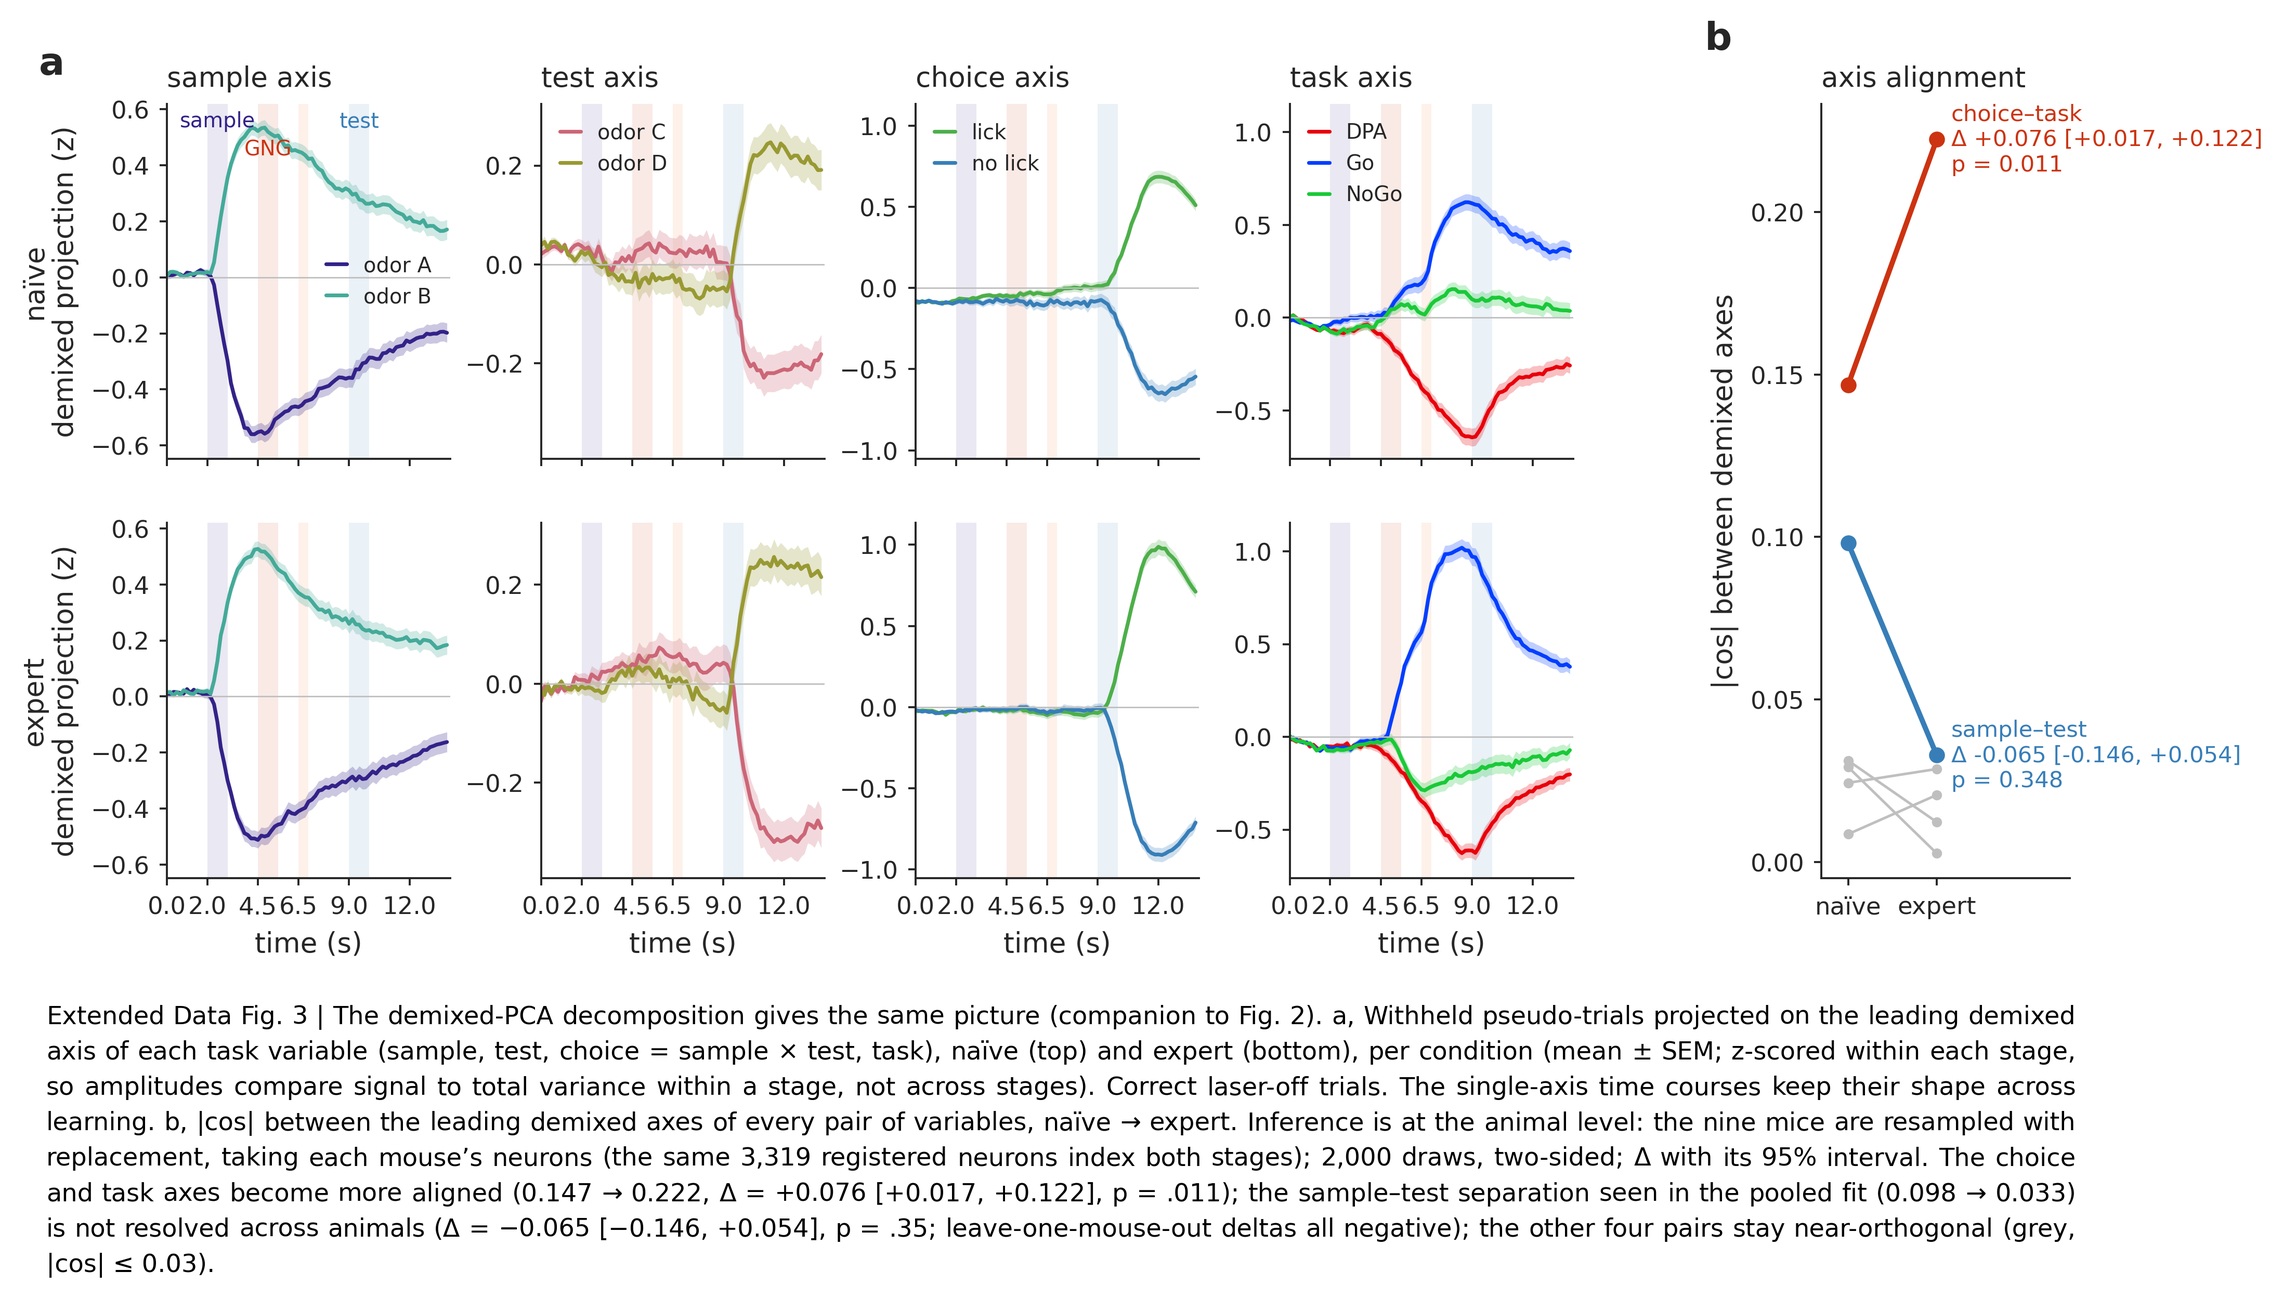
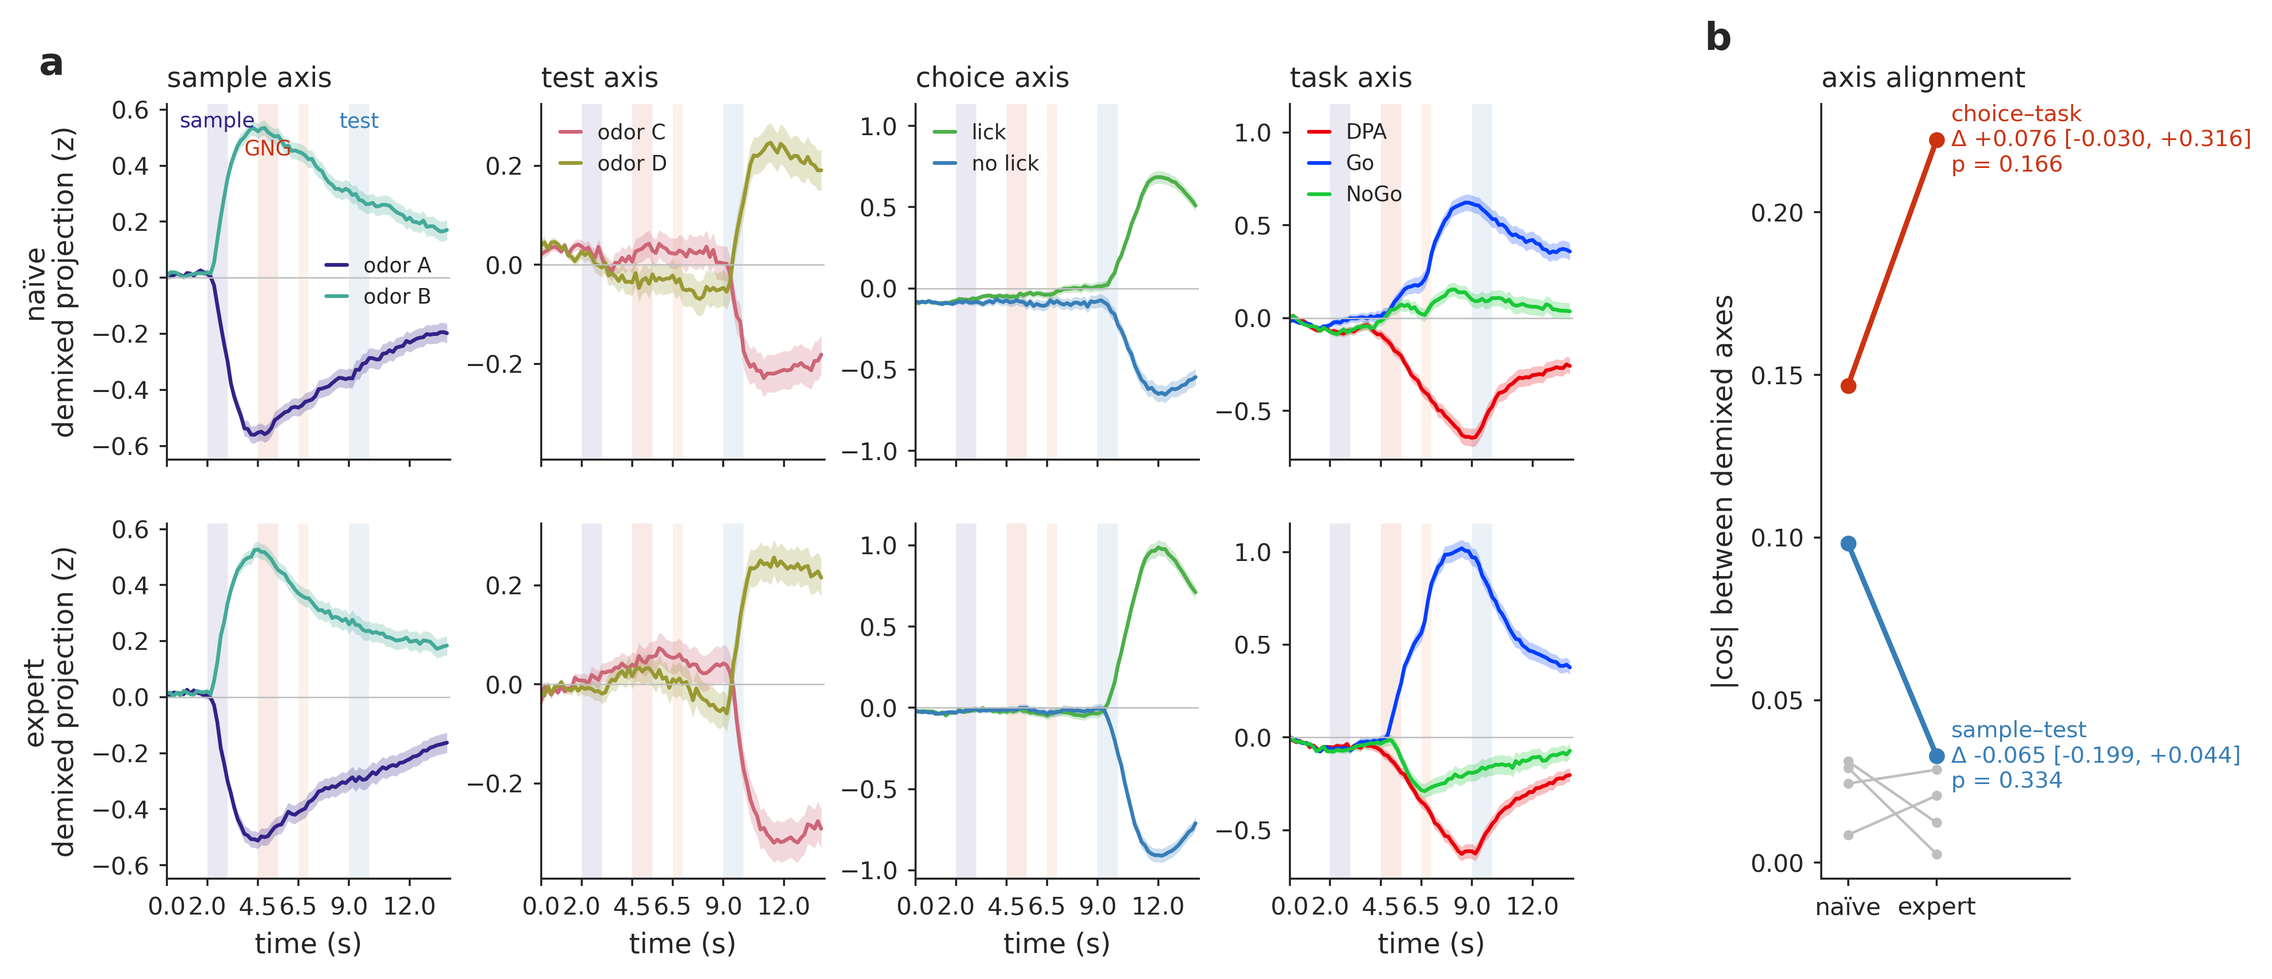
ED 3b: refit-dPCA mouse bootstrap — the choice–task alignment increase is not resolved across animals; draft v12.38
exp_dpca_refit_boot.py re-fits dPCA on 1,000 resampled nine-mouse sets: choice–task Δ +0.076 [−0.030, +0.316]
p .17 (fixed-axis bootstrap p .011 withdrawn), sample–test Δ −0.065 [−0.199, +0.044] p .33. ED 3b, §2, ED 3
legend, docs and memory updated. run_overlaps.py gains a within-session trial index column and seeded folds.

Claude-Session: https://claude.ai/code/session_01PzGzWMKHPqqyp4poHedntF

diff --git a/pca/exp_dpca_refit_boot.py b/pca/exp_dpca_refit_boot.py
@@ -1,0 +1,96 @@
+"""Refit-dPCA mouse bootstrap for the axis-mixing panel (ED 3b) — reviewer item 2026-09-15.
+
+ED 3b's animal-level interval resamples the nine mice's neuron columns of the FIXED per-stage dPCA decoders
+(`pseudo_weights_…f-sample-test-tasks_dpca`). That keeps the decoders as fitted on all nine mice; a mouse
+bootstrap should REFIT dPCA on each resampled set of mice. This script does that with the pipeline's own
+primitives (src/pca/pseudo.build_pseudo_population + src/pca/dpca.dpca_decode; factors sample x test x tasks,
+zscore, baseline-centred, q = 2, ridge 1e-2, correct laser-off trials — the reference build's settings):
+
+  for each of B draws of nine mice with replacement (the SAME draw for Naive and Expert):
+      P_b = the drawn mice's condition-average blocks concatenated along neurons (a mouse drawn twice appears twice)
+      W_b = dpca_decode(P_b)   →  |cos| between the first components of every pair of marginals
+      Δ_b = cos_Expert − cos_Naive
+  percentile 95% CI and two-sided bootstrap p (fraction of draws on either side of 0) per pair.
+
+Writes DPCA_REFIT_BOOT into figures/pseudo/dimensionality/results.pkl (point estimates, per-draw Δ, CI, p, and
+the reference cosines recomputed here, which must match fig_ed6_dpca.py's N -> E values).
+Run:  cd /home/leon/dual/pca && /home/leon/mambaforge/envs/dual/bin/python exp_dpca_refit_boot.py [--B 1000]
+"""
+import sys, os, warnings, pickle, argparse
+warnings.filterwarnings('ignore'); sys.path.insert(0, '/home/leon/dual/')
+os.chdir(os.path.dirname(os.path.abspath(__file__)))
+import numpy as np
+from time import perf_counter
+from joblib import Parallel, delayed
+from src.pca.io import pkl_load
+from src.pca.pseudo import build_pseudo_population
+from src.pca.dpca import dpca_decode
+from src.pca.utils import get_levels
+
+ap = argparse.ArgumentParser(); ap.add_argument('--B', type=int, default=1000); ap.add_argument('--jobs', type=int, default=36)
+args = ap.parse_args()
+FACTORS = ['sample', 'test', 'tasks']; STAGES = ['Naive', 'Expert']
+MARGS = ['sample', 'test', 'sample:test', 'tasks']; SH = {'sample': 'sample', 'test': 'test', 'sample:test': 'choice', 'tasks': 'task'}
+PRS = [(a, b) for a in range(4) for b in range(a + 1, 4)]
+
+t0 = perf_counter()
+print('loading X_all_blcenter (10 GB) …', flush=True)
+X_all = pkl_load('X_all_blcenter', path='../data/pca'); y_all = pkl_load('y_all_blcenter', path='../data/pca')
+SL = pkl_load('mouse_slices', path='../data/pca'); MICE = list(SL.keys())
+y_all['sample'] = y_all.sample_odor; y_all['test'] = y_all.test_odor          # as run_pseudo.py
+print(f'  X_all {X_all.shape}  ({(perf_counter() - t0) / 60:.1f} min)', flush=True)
+
+P = {}; SIZES = None
+for st in STAGES:                                    # the reference build's clean set: correct laser-off trials
+    m = ((y_all.laser == 0) & (y_all.learning == st) & (y_all.performance == 1)).to_numpy()
+    yc = y_all.loc[m].reset_index(drop=True); levels = get_levels(yc, FACTORS)
+    SIZES = [len(levels[f]) for f in FACTORS]
+    P[st], _, _, _ = build_pseudo_population(X_all[m], yc, FACTORS, SL, levels=levels, epoch=None,
+                                             bl_bins=slice(0, 12), norm='zscore')
+    print(f'  {st}: P {P[st].shape}  sizes {SIZES}', flush=True)
+del X_all
+
+
+def cosines(W, labels):
+    ix = {mg: labels.index(mg) for mg in MARGS}
+    u = {mg: W[ix[mg]] / np.linalg.norm(W[ix[mg]]) for mg in MARGS}
+    return np.array([abs(float(u[MARGS[a]] @ u[MARGS[b]])) for a, b in PRS])
+
+
+def one_draw(pick):
+    out = {}
+    for st in STAGES:
+        Pb = np.concatenate([P[st][:, SL[MICE[k]], :] for k in pick], axis=1)
+        W, _, labels, _ = dpca_decode(Pb, SIZES, FACTORS, q=2, ridge=1e-2)
+        out[st] = cosines(W, labels)
+    return out['Expert'] - out['Naive'], out['Naive'], out['Expert']
+
+
+REF = {}
+for st in STAGES:
+    W, _, labels, _ = dpca_decode(P[st], SIZES, FACTORS, q=2, ridge=1e-2); REF[st] = cosines(W, labels)
+print('\nreference |cos| (must match fig_ed6_dpca.py panel b):')
+for i, (a, b) in enumerate(PRS):
+    print(f'  {SH[MARGS[a]]:>6}-{SH[MARGS[b]]:<6} N {REF["Naive"][i]:.3f} -> E {REF["Expert"][i]:.3f}  Δ {REF["Expert"][i] - REF["Naive"][i]:+.3f}')
+
+rng = np.random.RandomState(0)
+PICKS = [rng.randint(0, len(MICE), len(MICE)) for _ in range(args.B)]
+print(f'\nrefit bootstrap: {args.B} draws × 2 stages on {args.jobs} workers …', flush=True)
+t1 = perf_counter()
+res = Parallel(n_jobs=args.jobs, verbose=2)(delayed(one_draw)(p) for p in PICKS)
+D = np.array([r[0] for r in res]); CN = np.array([r[1] for r in res]); CE = np.array([r[2] for r in res])
+print(f'  done in {(perf_counter() - t1) / 60:.1f} min')
+ci = np.percentile(D, [2.5, 97.5], axis=0).T
+pv = np.array([2 * min((D[:, i] > 0).mean(), (D[:, i] < 0).mean()) for i in range(len(PRS))])
+print('\nrefit mouse bootstrap (Δ = expert − naive |cos|):')
+for i, (a, b) in enumerate(PRS):
+    print(f'  {SH[MARGS[a]]:>6}-{SH[MARGS[b]]:<6} Δ {REF["Expert"][i] - REF["Naive"][i]:+.3f}  boot mean {D[:, i].mean():+.3f}  '
+          f'CI [{ci[i, 0]:+.3f}, {ci[i, 1]:+.3f}]  p = {pv[i]:.3f}   (naive {CN[:, i].mean():.3f} [{np.percentile(CN[:, i], 2.5):.3f}, '
+          f'{np.percentile(CN[:, i], 97.5):.3f}], expert {CE[:, i].mean():.3f} [{np.percentile(CE[:, i], 2.5):.3f}, {np.percentile(CE[:, i], 97.5):.3f}])')
+
+RES = 'figures/pseudo/dimensionality/results.pkl'
+r = pickle.load(open(RES, 'rb')) if os.path.exists(RES) else {}
+r['DPCA_REFIT_BOOT'] = dict(pairs=PRS, margs=MARGS, ref=REF, delta=D, cos_naive=CN, cos_expert=CE, ci=ci, p=pv,
+                            picks=np.array(PICKS), B=args.B)
+pickle.dump(r, open(RES, 'wb'))
+print('\nmerged DPCA_REFIT_BOOT into', RES, f'({(perf_counter() - t0) / 60:.1f} min total)')

diff --git a/pca/fig_ed6_dpca.py b/pca/fig_ed6_dpca.py
@@ -140,6 +140,11 @@ def panel_b(ax):
         for pr in prs:
             bootn[pr][b] = cos(we, iE[MARGS[pr[0]]], iE[MARGS[pr[1]]]) - cos(wn, iN[MARGS[pr[0]]], iN[MARGS[pr[1]]])
     pneur = {pr: 2 * min((bootn[pr] > 0).mean(), (bootn[pr] < 0).mean()) for pr in prs}
+    # 2026-09-15 (later): the REFIT mouse bootstrap (exp_dpca_refit_boot.py — dPCA re-fitted on every resampled set of
+    # mice, 1,000 draws) is the stricter test and is what the panel shows; the fixed-axis draws above are printed only.
+    RB = pickle.load(open('figures/pseudo/dimensionality/results.pkl', 'rb'))['DPCA_REFIT_BOOT']
+    fixed_ci, fixed_p = ci, pval
+    ci = {pr: RB['ci'][RB['pairs'].index(pr)] for pr in prs}; pval = {pr: float(RB['p'][RB['pairs'].index(pr)]) for pr in prs}
     HL = {(2, 3): '#cc3311', (0, 1): '#377eb8'}
     for pr in prs:
         if pr in HL:
@@ -153,7 +158,7 @@ def panel_b(ax):
     ax.set_ylim(bottom=-0.005); ax.set_ylabel('|cos| between demixed axes')
     ax.set_title('axis alignment', loc='left', fontsize=TITLE_FS)
     for pr in prs:
-        print(f'b: {SH[MARGS[pr[0]]]:>6}-{SH[MARGS[pr[1]]]:<6} N {cN[pr]:.3f} -> E {cE[pr]:.3f}  Δ {cE[pr]-cN[pr]:+.3f}  mouse-cluster CI [{ci[pr][0]:+.3f}, {ci[pr][1]:+.3f}] p={pval[pr]:.3f}  (neuron bootstrap p={pneur[pr]:.3f})')
+        print(f'b: {SH[MARGS[pr[0]]]:>6}-{SH[MARGS[pr[1]]]:<6} N {cN[pr]:.3f} -> E {cE[pr]:.3f}  Δ {cE[pr]-cN[pr]:+.3f}  refit mouse-bootstrap CI [{ci[pr][0]:+.3f}, {ci[pr][1]:+.3f}] p={pval[pr]:.3f}  (fixed-axis mouse bootstrap CI [{fixed_ci[pr][0]:+.3f}, {fixed_ci[pr][1]:+.3f}] p={fixed_p[pr]:.3f}; neuron bootstrap p={pneur[pr]:.3f})')
 
 
 fig = plt.figure(figsize=(10.0, 4.6))
@@ -171,10 +176,12 @@ CAP = [
     'stage, so amplitudes compare signal to total variance within a stage, not across stages). Correct laser-off '
     'trials. The single-axis time courses keep their shape across learning. b, |cos| between the leading demixed axes '
     'of every pair of variables, naïve → expert. Inference is at the animal level: the nine mice are resampled with '
-    'replacement, taking each mouse’s neurons (the same 3,319 registered neurons index both stages); 2,000 draws, '
-    'two-sided; Δ with its 95% interval. The choice and task axes become more aligned (0.147 → 0.222, Δ = +0.076 [+0.017, +0.122], p = .011); the sample–test separation seen in the pooled fit (0.098 → 0.033) is not resolved '
-    'across animals (Δ = −0.065 [−0.146, +0.054], p = .35; leave-one-mouse-out deltas all negative); the other four '
-    'pairs stay near-orthogonal (grey, |cos| ≤ 0.03).',
+    'replacement and the decomposition is re-fitted on each resampled set (1,000 draws, two-sided); Δ with its 95% '
+    'interval. Neither change is resolved across animals: the choice and task axes are more aligned in the pooled fit '
+    '(0.147 → 0.222, Δ = +0.076 [−0.030, +0.316], p = .17) and the sample and test axes less so (0.098 → 0.033, '
+    'Δ = −0.065 [−0.199, +0.044], p = .33); the other four pairs stay near-orthogonal (grey, |cos| ≤ 0.03). Resampling '
+    'mice with the axes held fixed gives narrower intervals (choice–task [+0.017, +0.122]) because it leaves out the '
+    'uncertainty of the fit itself.',
 ]
 if not NOCAP:
     draw_justified(fig, CAP, fontsize=PS*7.2)

diff --git a/overlaps/run_overlaps.py b/overlaps/run_overlaps.py
@@ -308,6 +308,8 @@ y_all['distractor'] = y_all.dist_odor
 y_all['test']       = y_all.test_odor
 y_all['licks']      = (y_all.odr_choice + y_all.choice) > 0
 y_all['gng']        = (y_all.tasks == 'DualGo').astype(int)   # Go(1) vs NoGo(0), Dual trials only
+y_all['trial']      = y_all.groupby(['mouse', 'day']).cumcount()   # within-session trial index (2026-09-15): rows come
+                                                                  # back in fold order, this column re-aligns them to the .mat behaviour trials
 print(f'X_all {X_all.shape}  y_all {y_all.shape}')
 
 # ── phase 2: CCGD ────────────────────────────────────────────────────────────
@@ -316,7 +318,7 @@ dec_scaler = None if args.scaler == 'none' else args.scaler
 options = set_options(**{**options_kwargs, 'days': args.days})
 
 folds = RepeatedStratifiedKFold(
-    n_splits=args.n_splits, n_repeats=args.n_repeats,
+    n_splits=args.n_splits, n_repeats=args.n_repeats, random_state=args.random_state,   # seeded since 2026-09-15
 )
 bins_epoch = options['bins_CHOICE']   # used only when --fit-param-epoch
 

diff --git a/docs/paper/results_draft.md b/docs/paper/results_draft.md
@@ -1,5 +1,12 @@
 # Compositional learning by geometric editing — main paper (draft v12)
 
+> **v12.38 (2026-09-15): REFIT-dPCA MOUSE BOOTSTRAP — THE CHOICE–TASK ALIGNMENT INCREASE IS NOT RESOLVED** (Leon: "run the
+> refit-dPCA bootstrap"). `pca/exp_dpca_refit_boot.py` (6.9 min) re-fits dPCA on every resampled set of nine mice (1,000 draws)
+> instead of resampling neuron columns of the fixed axes: choice–task Δ +0.076 [−0.030, +0.316] p = .17 (fixed-axis: [+0.017,
+> +0.122] p = .011), sample–test Δ −0.065 [−0.199, +0.044] p = .33. §2 and the ED 3 legend now say neither angle change is
+> resolved across animals; the fixed-axis interval is explained as leaving out the fit's own uncertainty. The dPCA companion's
+> load-bearing content is unchanged (single-axis time courses keep their shape; all pairs near-orthogonal).
+
 > **v12.37 (2026-09-15): PER-ANIMAL SHATTERING COMPANION** (Leon: "run the per-animal shattering companion"; the last open
 > reviewer item that the text could carry). `pca/exp_shatter_permouse.py` (0.7 min on 36 workers — the "≈ 90 min" estimate was
 > serial) adds a leave-one-mouse-out jackknife of the pooled shattering dimension (SD_LOO: 0.660 [0.615, 0.705] naïve, 0.672
@@ -625,8 +632,9 @@ in Extended Data Fig. 2a,b. Second, these numbers describe the geometry of the s
 population visits, not the dynamics that carry it between them, which are of higher rank. An
 independent decomposition of the same data by demixed PCA gives the same picture (Extended Data
 Fig. 3): time courses along single axes sharpened with learning without reorganizing, the
-choice and task axes of that decomposition became more aligned (|cos| 0.147 → 0.222; Δ = +0.076 95% CI [+0.017, +0.122] over animals, p = 0.011), whereas the separation of the sample and test axes seen in the pooled fit
-(0.098 → 0.033) is not resolved across animals (Δ = −0.065 [−0.146, +0.054], p = 0.35).
+and the changes in the angles between its axes (choice–task |cos| 0.147 → 0.222, sample–test 0.098 → 0.033) are not
+resolved across animals once the decomposition is re-fitted on resampled mice (Δ = +0.076, 95% CI [−0.030, +0.316],
+p = 0.17; Δ = −0.065 [−0.199, +0.044], p = 0.33).
 
 ## A single plane carries the memory and choice codes
 
@@ -1450,12 +1458,14 @@ pseudo-trials projected on the leading demixed axis of each task variable (sampl
 task), naïve (top) and expert (bottom), per condition (mean ± SEM; z-scored within each stage, so amplitudes compare
 signal to total variance within a stage, not across stages). Correct laser-off trials. The single-axis time courses
 keep their shape across learning. b, |cos| between the leading demixed axes of every pair of variables, naïve →
-expert. Inference is at the animal level: the nine mice are resampled with replacement, taking each mouse's neurons
-(the same 3,319 registered neurons index both stages); 2,000 draws, two-sided; Δ with its 95% interval. The choice and
-task axes become more aligned (0.147 → 0.222, Δ = +0.076 [+0.017, +0.122], p = .011); the sample–test separation
-seen in the pooled fit (0.098 → 0.033) is not resolved across animals (Δ = −0.065 [−0.146, +0.054], p = .35;
-leave-one-mouse-out deltas all negative); the other four pairs stay near-orthogonal (grey, |cos| ≤ 0.03). _(Review
-2026-09-15: the neuron bootstrap of the earlier build, p < .001 / .008, treated neurons as the unit; withdrawn.)_
+expert. Inference is at the animal level: the nine mice are resampled with replacement and the decomposition is
+re-fitted on each resampled set (1,000 draws, two-sided); Δ with its 95% interval. Neither change is resolved across
+animals: the choice and task axes are more aligned in the pooled fit (0.147 → 0.222, Δ = +0.076 [−0.030, +0.316],
+p = .17) and the sample and test axes less so (0.098 → 0.033, Δ = −0.065 [−0.199, +0.044], p = .33); the other four
+pairs stay near-orthogonal (grey, |cos| ≤ 0.03). Resampling mice with the axes held fixed gives narrower intervals
+(choice–task [+0.017, +0.122]) because it leaves out the uncertainty of the fit itself. _(2026-09-15: the neuron
+bootstrap of the earlier build, p < .001 / .008, and the fixed-axis mouse bootstrap, p = .011, are both withdrawn as the
+reported test; `exp_dpca_refit_boot.py`.)_
 
 **ED Fig. 4 | The push and the learning coupling under other units, other decoders, a fixed axis and a lick
 covariate (companion to Fig. 4b,c).** All panels read cross-validated decision functions of the CCGD pipeline; the

diff --git a/docs/pca/dimensionality.md b/docs/pca/dimensionality.md
@@ -1,3 +1,11 @@
+> **2026-09-15 (latest) — REFIT-dPCA MOUSE BOOTSTRAP (ED 3b):** `exp_dpca_refit_boot.py` (6.9 min; loads X_all_blcenter, rebuilds
+> the sample × test × tasks pseudo-population per stage with `build_pseudo_population`, then `dpca_decode` on each of 1,000
+> resampled sets of nine mice — a mouse drawn twice contributes its block twice) → `DPCA_REFIT_BOOT` in results.pkl. The
+> choice–task alignment increase does NOT survive: Δ +0.076 [−0.030, +0.316] p .17 (fixed-axis mouse bootstrap [+0.017,
+> +0.122] p .011 — narrower because it leaves out the fit's own uncertainty); sample–test Δ −0.065 [−0.199, +0.044] p .33.
+> `fig_ed6_dpca.py` panel b draws the refit interval and prints all three (refit / fixed-axis / neuron); §2 and the ED 3
+> legend say neither angle change is resolved across animals. Draft v12.38.
+
 > **2026-09-15 (latest) — PER-ANIMAL SHATTERING COMPANION (ED 2c):** `exp_shatter_permouse.py` (0.7 min, 36 joblib workers)
 > writes `SD_LOO` (leave-one-mouse-out jackknife of the pooled 462-dichotomy SD: 0.660 [0.615, 0.705] naïve, 0.672
 > [0.621, 0.723] expert, Δ +0.012 [−0.022, +0.046], t(8) p = .43) and `SD_MOUSE` (each mouse's own population, real trials,

diff --git a/docs/pca/story_figure_reproduction.md b/docs/pca/story_figure_reproduction.md
@@ -161,7 +161,7 @@ the two rows' ylims) so Naive-vs-Expert is directly comparable — the Expert ax
 ### Panel E — FULL pairwise axis mixing (Naive vs Expert) — `section2_mixing(ax)`
 The complete mixing picture, not just one pair: **|cos| between the leading dPCA decoder axes of every pair**
 among `{sample, test, sample:test=choice, tasks}` (0 = demixed/orthogonal, 1 = collinear), from the pooled
-per-stage `pseudo_weights_…f-sample-test-tasks_dpca` (16 comp × 3319 neurons). Drawn as a **slopegraph**
+per-stage `pseudo_weights_…f-sample-test-tasks_dpca` (16 comp × 3319 neurons). Drawn as a **slopegraph** _(2026-09-15: inference for the slopegraph is the REFIT mouse bootstrap, `exp_dpca_refit_boot.py`; no pair's change is resolved across animals — `dimensionality.md` top note.)_
 Naive→Expert; both stages share the **same 3319 neurons** so a **neuron bootstrap** (2000×) on each pair's
 change gives a paired p. Learning does **two** things and the rest stay orthogonal:
 - **choice–task BINDS** (red, ***): |cos| **0.147 → 0.222, Δ+0.076, p<0.001** — the decision axis and the

diff --git a/docs/rebuild_timings.md b/docs/rebuild_timings.md
@@ -90,3 +90,4 @@ place or from somewhere less direct.
 | 2026-09-15 16:49 | all-trial replications 2026-09-15 | exp_ooc_plane_pseudo.py --nopca --alltrials | 0.4 | measured |
 | 2026-09-15 17:04 | all-trial replications 2026-09-15 | fig_ccgp.py --canon --alltrials | 19.0 | measured |
 | 2026-09-15 17:42 | per-animal shattering 2026-09-15 | exp_shatter_permouse.py (LOO jackknife 18x8 + own-population 18x20, 462 dich., 36 workers) | 0.7 | measured |
+| 2026-09-15 17:58 | refit-dPCA bootstrap 2026-09-15 | exp_dpca_refit_boot.py (X_all_blcenter load + 1000 mouse draws x 2 stages refit, 36 workers) | 6.9 | measured |
